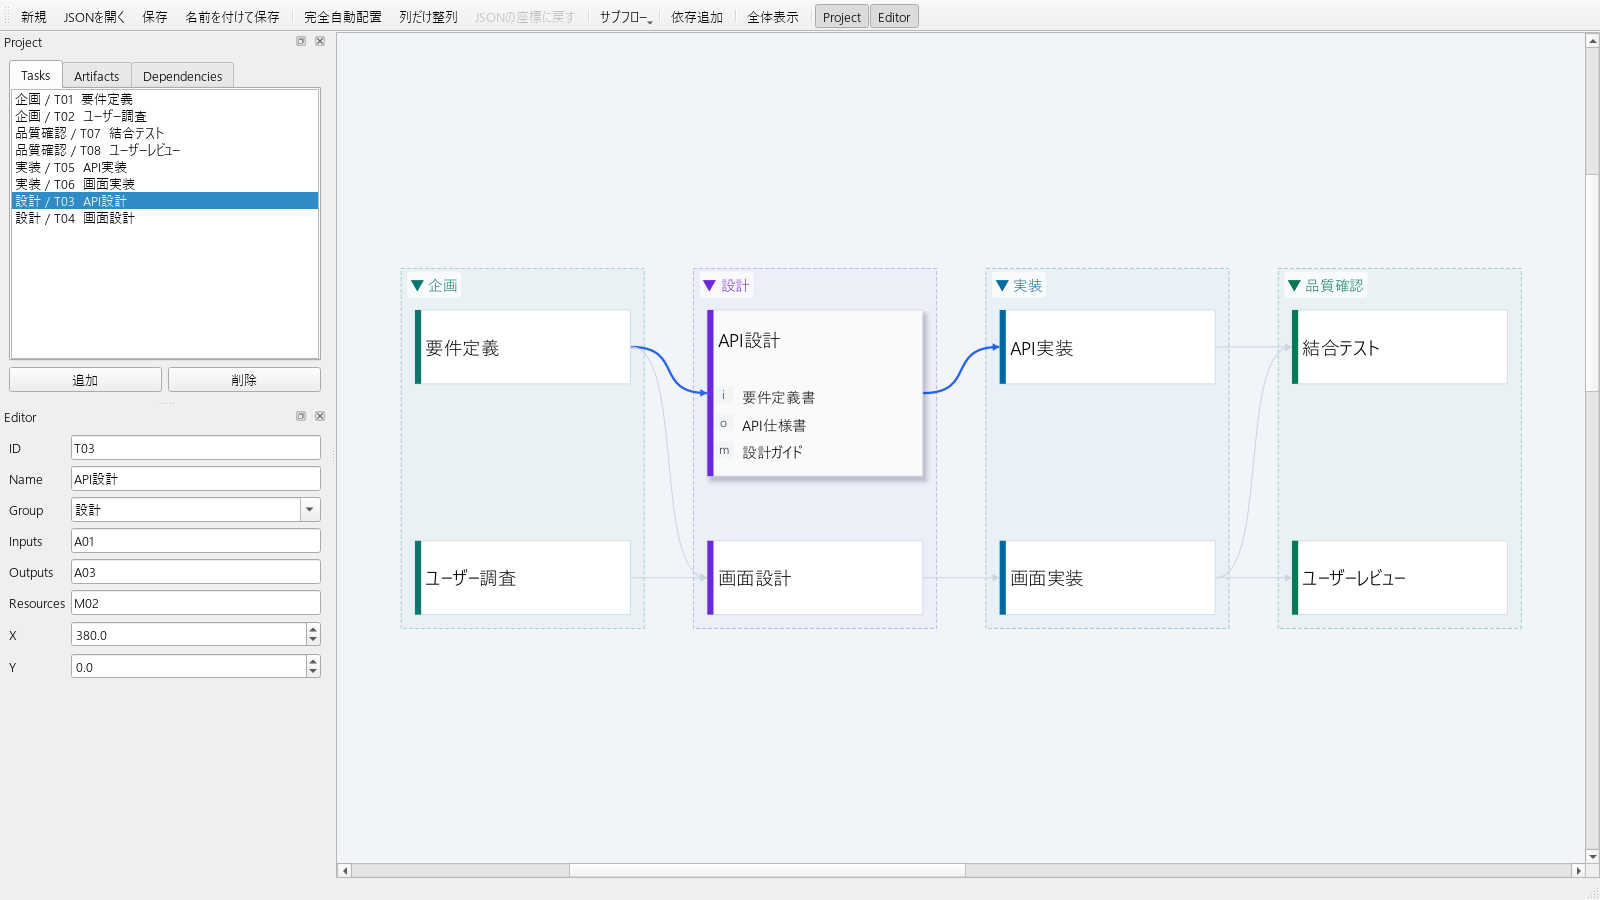
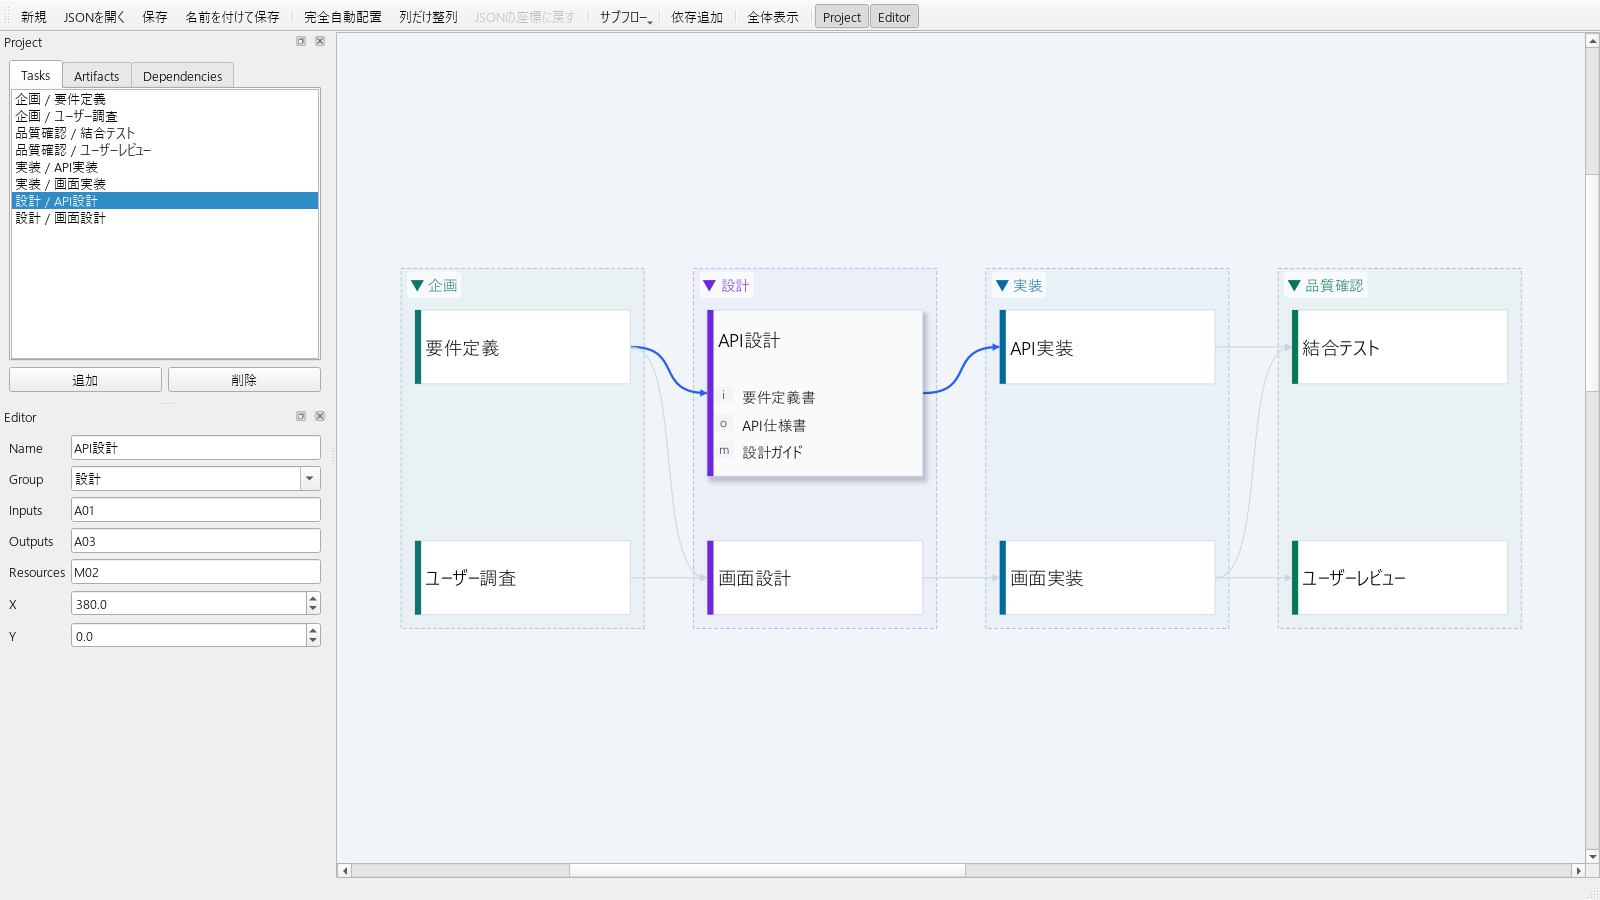
feat: change dependency feature

Changed region(s): [[0.0, 0.5289, 0.1875, 0.7467], [0.0312, 0.0933, 0.0938, 0.2489]]

diff --git a/src/pytaskflow/app.py b/src/pytaskflow/app.py
@@ -298,7 +298,7 @@ class EdgeItem(QGraphicsPathItem):
         self.setPath(path)
 
     def label(self) -> str:
-        return f"{self.dependency.get('from', '')} -> {self.dependency.get('to', '')}"
+        return self.app_window.dependency_label(self.dependency)
 
     def is_connected_to_selected_task(self) -> bool:
         selected_task_id = self.app_window.selected_task_id()
@@ -861,13 +861,14 @@ class MainWindow(QMainWindow):
         project_layout.addWidget(self.project_tabs)
 
         button_row = QHBoxLayout()
-        add_button = QPushButton("追加")
-        delete_button = QPushButton("削除")
-        add_button.clicked.connect(self.add_selected_tab_item)
-        delete_button.clicked.connect(self.delete_selected_item)
-        button_row.addWidget(add_button)
-        button_row.addWidget(delete_button)
+        self.add_button = QPushButton("追加")
+        self.delete_button = QPushButton("削除")
+        self.add_button.clicked.connect(self.add_selected_tab_item)
+        self.delete_button.clicked.connect(self.delete_selected_item)
+        button_row.addWidget(self.add_button)
+        button_row.addWidget(self.delete_button)
         project_layout.addLayout(button_row)
+        self.project_tabs.currentChanged.connect(self.update_project_buttons)
 
         self.project_dock.setWidget(project_widget)
         self.addDockWidget(Qt.LeftDockWidgetArea, self.project_dock)
@@ -894,18 +895,17 @@ class MainWindow(QMainWindow):
 
     def build_form_stack(self):
         self.form_stack = QStackedWidget()
-        empty = QLabel("左の一覧から編集する項目を選択してください")
-        empty.setAlignment(Qt.AlignCenter)
-        self.form_stack.addWidget(empty)
+        self.editor_hint = QLabel("左の一覧から編集する項目を選択してください")
+        self.editor_hint.setAlignment(Qt.AlignCenter)
+        self.editor_hint.setWordWrap(True)
+        self.form_stack.addWidget(self.editor_hint)
         self.form_stack.addWidget(self.build_task_form())
         self.form_stack.addWidget(self.build_artifact_form())
-        self.form_stack.addWidget(self.build_dependency_form())
         return self.form_stack
 
     def build_task_form(self):
         widget = QWidget()
         form = QFormLayout(widget)
-        self.task_id_edit = QLineEdit()
         self.task_name_edit = QLineEdit()
         self.task_group_combo = QComboBox()
         self.task_group_combo.setEditable(True)
@@ -915,7 +915,6 @@ class MainWindow(QMainWindow):
         self.task_x_spin = self.make_position_spinbox()
         self.task_y_spin = self.make_position_spinbox()
 
-        form.addRow("ID", self.task_id_edit)
         form.addRow("Name", self.task_name_edit)
         form.addRow("Group", self.task_group_combo)
         form.addRow("Inputs", self.task_inputs_edit)
@@ -925,7 +924,6 @@ class MainWindow(QMainWindow):
         form.addRow("Y", self.task_y_spin)
 
         for widget_to_watch in (
-            self.task_id_edit,
             self.task_name_edit,
             self.task_inputs_edit,
             self.task_outputs_edit,
@@ -951,17 +949,6 @@ class MainWindow(QMainWindow):
         self.artifact_id_edit.editingFinished.connect(self.apply_artifact_form)
         self.artifact_name_edit.editingFinished.connect(self.apply_artifact_form)
         self.artifact_link_edit.editingFinished.connect(self.apply_artifact_form)
-        return widget
-
-    def build_dependency_form(self):
-        widget = QWidget()
-        form = QFormLayout(widget)
-        self.dep_from_combo = QComboBox()
-        self.dep_to_combo = QComboBox()
-        form.addRow("From", self.dep_from_combo)
-        form.addRow("To", self.dep_to_combo)
-        self.dep_from_combo.currentTextChanged.connect(self.apply_dependency_form)
-        self.dep_to_combo.currentTextChanged.connect(self.apply_dependency_form)
         return widget
 
     def make_position_spinbox(self):
@@ -1193,6 +1180,27 @@ class MainWindow(QMainWindow):
             return dependencies[index]
         return None
 
+    def task_label(self, task_id: str) -> str:
+        task = self.find_task(str(task_id))
+        if task is None:
+            return str(task_id)
+        name = str(task.get("name") or "名前なし")
+        group = task_group(task)
+        return f"{group} / {name}" if group else name
+
+    def dependency_label(self, dependency: dict) -> str:
+        source = self.task_label(dependency.get("from", ""))
+        target = self.task_label(dependency.get("to", ""))
+        return f"{source} → {target}"
+
+    def update_project_buttons(self):
+        current = self.project_tabs.currentWidget()
+        editable = current is not self.dependency_list
+        self.add_button.setVisible(editable)
+        self.delete_button.setVisible(editable)
+        kind = "task" if current is self.task_list else "artifact"
+        self.delete_button.setEnabled(editable and self.selected_kind == kind)
+
     def refresh_editor(self):
         if not hasattr(self, "task_list"):
             return
@@ -1212,9 +1220,7 @@ class MainWindow(QMainWindow):
             )
             for task in sorted_tasks:
                 task_id = str(task.get("id", ""))
-                group = task_group(task)
-                label = f"{group} / {task_id}  {task.get('name', '')}" if group else f"未分類 / {task_id}  {task.get('name', '')}"
-                item = QListWidgetItem(label)
+                item = QListWidgetItem(self.task_label(task_id))
                 item.setData(Qt.UserRole, task_id)
                 self.task_list.addItem(item)
                 if current_kind == "task" and task_id == current_id:
@@ -1231,17 +1237,12 @@ class MainWindow(QMainWindow):
 
             self.dependency_list.clear()
             for index, dep in enumerate(self.project.get("dependencies", [])):
-                item = QListWidgetItem(f"{dep.get('from', '')} -> {dep.get('to', '')}")
+                item = QListWidgetItem(self.dependency_label(dep))
                 item.setData(Qt.UserRole, index)
                 self.dependency_list.addItem(item)
                 if current_kind == "dependency" and index == current_dep_row:
                     self.dependency_list.setCurrentItem(item)
 
-            task_ids = [str(task.get("id", "")) for task in self.project.get("tasks", []) if task.get("id")]
-            self.dep_from_combo.clear()
-            self.dep_to_combo.clear()
-            self.dep_from_combo.addItems(task_ids)
-            self.dep_to_combo.addItems(task_ids)
             current_group = self.task_group_combo.currentText()
             self.task_group_combo.clear()
             self.task_group_combo.addItem("")
@@ -1250,6 +1251,8 @@ class MainWindow(QMainWindow):
             self.populate_selected_form()
         finally:
             self._updating_editor = False
+        self.update_project_buttons()
+        self.refresh_edge_styles()
 
     def populate_selected_form(self):
         if self.selected_kind == "task":
@@ -1257,8 +1260,14 @@ class MainWindow(QMainWindow):
         elif self.selected_kind == "artifact":
             self.populate_artifact_form()
         elif self.selected_kind == "dependency":
-            self.populate_dependency_form()
+            self.editor_hint.setText(
+                "依存関係の追加は「依存追加」から、依存元・依存先のブロックを順にクリックします。\n"
+                "削除は接続線の右クリックから解除してください。\n"
+                "接続先を変更する場合は、解除してから追加し直してください。"
+            )
+            self.form_stack.setCurrentIndex(0)
         else:
+            self.editor_hint.setText("左の一覧から編集する項目を選択してください")
             self.form_stack.setCurrentIndex(0)
 
     def populate_task_form(self):
@@ -1267,7 +1276,6 @@ class MainWindow(QMainWindow):
             self.form_stack.setCurrentIndex(0)
             return
         self.form_stack.setCurrentIndex(1)
-        self.task_id_edit.setText(str(task.get("id", "")))
         self.task_name_edit.setText(str(task.get("name", "")))
         self.task_group_combo.setCurrentText(task_group(task))
         self.task_inputs_edit.setText(self.id_list_to_text(task.get("inputs")))
@@ -1286,15 +1294,6 @@ class MainWindow(QMainWindow):
         self.artifact_name_edit.setText(str(artifact.get("name", "")))
         self.artifact_link_edit.setText(str(get_artifact_link(artifact)))
 
-    def populate_dependency_form(self):
-        dep = self.find_dependency(int(self.selected_id))
-        if not dep:
-            self.form_stack.setCurrentIndex(0)
-            return
-        self.form_stack.setCurrentIndex(3)
-        self.dep_from_combo.setCurrentText(str(dep.get("from", "")))
-        self.dep_to_combo.setCurrentText(str(dep.get("to", "")))
-
     def select_editor_item(self, kind: str, item):
         if self._updating_editor or item is None:
             return
@@ -1311,6 +1310,7 @@ class MainWindow(QMainWindow):
             self.populate_selected_form()
         finally:
             self._updating_editor = False
+        self.update_project_buttons()
         self.refresh_edge_styles()
         self.refresh_dependency_pick_styles()
 
@@ -1329,8 +1329,6 @@ class MainWindow(QMainWindow):
             self.add_task()
         elif current is self.artifact_list:
             self.add_artifact()
-        else:
-            self.add_dependency()
 
     def add_task(self):
         task_id = self.next_id("T", self.tasks.keys())
@@ -1357,45 +1355,12 @@ class MainWindow(QMainWindow):
         self.selected_id = artifact_id
         self.mark_editor_modified()
 
-    def add_dependency(self):
-        task_ids = [str(task.get("id")) for task in self.project.get("tasks", []) if task.get("id")]
-        if len(task_ids) < 2:
-            QMessageBox.information(self, "依存関係を追加できません", "依存関係にはタスクが2つ以上必要です")
-            return
-        dep = None
-        existing = {(item.get("from"), item.get("to")) for item in self.project.get("dependencies", [])}
-        for source in task_ids:
-            for target in task_ids:
-                if source == target or (source, target) in existing:
-                    continue
-                candidate = {"from": source, "to": target}
-                self.project.setdefault("dependencies", []).append(candidate)
-                if not self.has_cycle():
-                    dep = candidate
-                    break
-                self.project["dependencies"].pop()
-            if dep:
-                break
-        if not dep:
-            QMessageBox.information(self, "依存関係を追加できません", "追加できる依存関係の組み合わせがありません")
-            return
-        self.selected_kind = "dependency"
-        self.selected_id = len(self.project["dependencies"]) - 1
-        self.mark_editor_modified(rebuild_graph=True)
-
     def delete_selected_item(self):
-        if self.selected_kind == "task":
+        current = self.project_tabs.currentWidget()
+        if self.selected_kind == "task" and current is self.task_list:
             self.delete_task(str(self.selected_id))
-        elif self.selected_kind == "artifact":
+        elif self.selected_kind == "artifact" and current is self.artifact_list:
             self.delete_artifact(str(self.selected_id))
-        elif self.selected_kind == "dependency":
-            dependencies = self.project.get("dependencies", [])
-            index = int(self.selected_id)
-            if 0 <= index < len(dependencies):
-                dependencies.pop(index)
-                self.selected_kind = None
-                self.selected_id = None
-                self.mark_editor_modified(rebuild_graph=True)
 
     def delete_task(self, task_id: str):
         self.project["tasks"] = [task for task in self.project.get("tasks", []) if str(task.get("id")) != task_id]
@@ -1427,26 +1392,6 @@ class MainWindow(QMainWindow):
         if not task:
             return
 
-        old_id = str(task.get("id", ""))
-        new_id = self.task_id_edit.text().strip()
-        if not new_id:
-            QMessageBox.warning(self, "IDが空です", "タスクIDを入力してください")
-            self.refresh_editor()
-            return
-        if new_id != old_id and self.find_task(new_id):
-            QMessageBox.warning(self, "IDが重複しています", f"{new_id} はすでに使われています")
-            self.refresh_editor()
-            return
-
-        if new_id != old_id:
-            for dep in self.project.get("dependencies", []):
-                if dep.get("from") == old_id:
-                    dep["from"] = new_id
-                if dep.get("to") == old_id:
-                    dep["to"] = new_id
-            self.selected_id = new_id
-
-        task["id"] = new_id
         task["name"] = self.task_name_edit.text().strip()
         group = self.task_group_combo.currentText().strip()
         if group:
@@ -1492,36 +1437,6 @@ class MainWindow(QMainWindow):
         artifact["name"] = self.artifact_name_edit.text().strip()
         artifact.pop("kind", None)
         artifact["link"] = self.artifact_link_edit.text().strip()
-        self.mark_editor_modified(rebuild_graph=True)
-
-    def apply_dependency_form(self):
-        if self._updating_editor or self.selected_kind != "dependency":
-            return
-
-        dep = self.find_dependency(int(self.selected_id))
-        if not dep:
-            return
-
-        source = self.dep_from_combo.currentText()
-        target = self.dep_to_combo.currentText()
-        if not source or not target:
-            return
-        if source == target:
-            QMessageBox.warning(self, "依存関係が不正です", "同じタスク同士は接続できません")
-            self.refresh_editor()
-            return
-
-        old_from = dep.get("from")
-        old_to = dep.get("to")
-        dep["from"] = source
-        dep["to"] = target
-        if self.has_duplicate_dependency() or self.has_cycle():
-            dep["from"] = old_from
-            dep["to"] = old_to
-            QMessageBox.warning(self, "依存関係が不正です", "重複または循環する依存関係は保存できません")
-            self.refresh_editor()
-            return
-
         self.mark_editor_modified(rebuild_graph=True)
 
     def has_duplicate_dependency(self) -> bool:
@@ -1654,7 +1569,9 @@ class MainWindow(QMainWindow):
         return str(self.selected_id)
 
     def refresh_edge_styles(self):
+        selected = self.find_dependency(int(self.selected_id)) if self.selected_kind == "dependency" else None
         for edge in self.edges:
+            edge.setSelected(edge.dependency is selected)
             edge.refresh_style()
 
     def find_dependency_index_for_edge(self, edge: EdgeItem):
@@ -1792,17 +1709,17 @@ class MainWindow(QMainWindow):
         if source_id is None:
             self.dependency_source_id = target_id
             self.select_task_node(node)
-            self.statusBar().showMessage(f"{target_id} を依存元にしました。依存先にするタスクをクリックしてください", 6000)
+            self.statusBar().showMessage(f"{self.task_label(target_id)} を依存元にしました。依存先にするタスクをクリックしてください", 6000)
             return True
 
         if source_id == target_id:
             self.statusBar().showMessage("同じタスク同士は依存関係にできません", 4000)
             return True
         if self.dependency_exists(source_id, target_id):
-            self.statusBar().showMessage(f"{source_id} -> {target_id} は既に存在します", 4000)
+            self.statusBar().showMessage(f"{self.task_label(source_id)} → {self.task_label(target_id)} は既に存在します", 4000)
             return True
         if self.would_create_cycle(source_id, target_id):
-            self.statusBar().showMessage(f"{source_id} -> {target_id} は循環依存になるため追加できません", 5000)
+            self.statusBar().showMessage(f"{self.task_label(source_id)} → {self.task_label(target_id)} は循環依存になるため追加できません", 5000)
             return True
 
         dep = {"from": source_id, "to": target_id}
@@ -1812,7 +1729,7 @@ class MainWindow(QMainWindow):
         self.clear_dependency_source()
         self.mark_editor_modified(rebuild_graph=True)
         self.refresh_dependency_pick_styles()
-        self.statusBar().showMessage(f"依存関係を追加しました: {source_id} -> {target_id}。続けて依存元をクリックできます", 5000)
+        self.statusBar().showMessage(f"依存関係を追加しました: {self.dependency_label(dep)}。続けて依存元をクリックできます", 5000)
         return True
 
     def handle_canvas_empty_click(self) -> bool:
@@ -2315,10 +2232,6 @@ class MainWindow(QMainWindow):
         if event.key() == Qt.Key_Escape and self.is_dependency_pick_mode:
             self.cancel_dependency_pick_mode()
             self.statusBar().showMessage("依存関係の追加をキャンセルしました", 3000)
-            event.accept()
-            return
-        if event.key() == Qt.Key_Delete and self.selected_kind == "dependency":
-            self.delete_selected_item()
             event.accept()
             return
         super().keyPressEvent(event)
